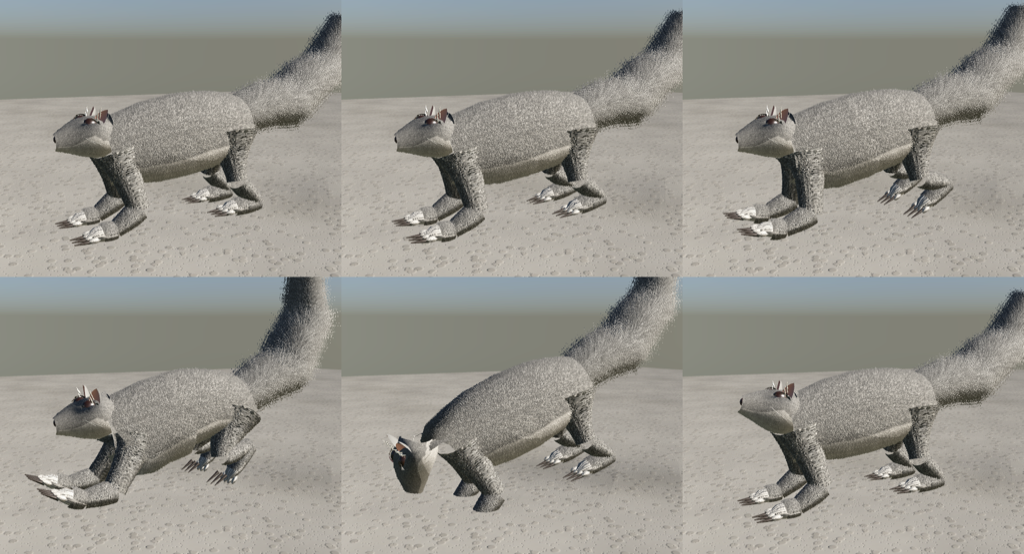
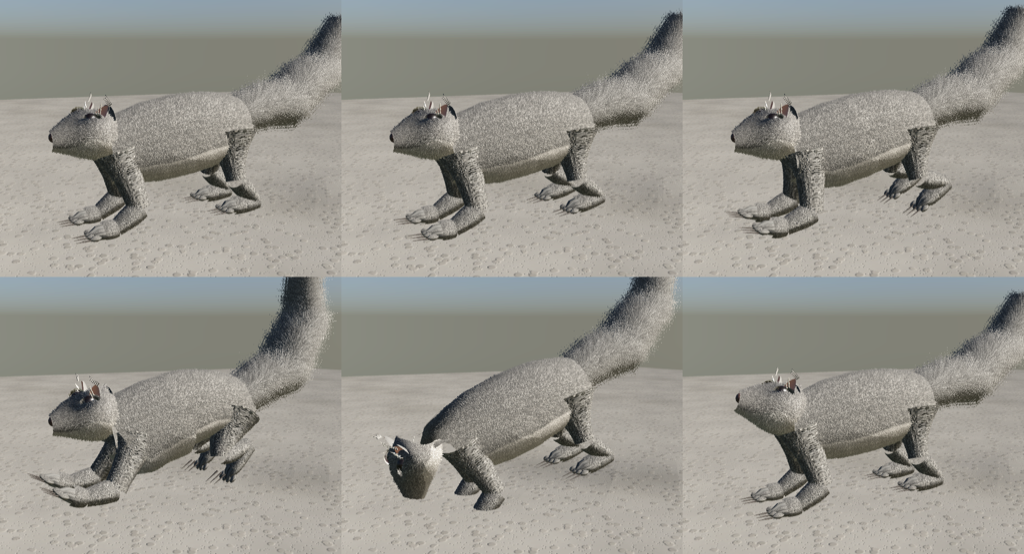
Pets pass 7: larger furred squirrel head, eye ring, slim claws, fennec seated eyes and tear line, matte bluebird

diff --git a/Sources/AnimalCore/Anatomy/GroundRigBuilder.swift b/Sources/AnimalCore/Anatomy/GroundRigBuilder.swift
@@ -49,6 +49,10 @@ struct GroundFrame {
     }
     /// Eye position: shaped heads seat it on the skull surface, the originals keep their placement.
     func eye(_ s: Side) -> V3 {
+        if a.headShape == nil && p.species == .fennecFox {
+            let t: Float = 0.5
+            return headCenter + V3(s.sign * 0.5 * a.headWidth * headProfile(t) * 0.8, 0.16 * a.headHeight, (0.5 - t) * a.headLength)
+        }
         if a.headShape == nil { return headCenter + V3(s.sign * 0.5 * a.headWidth * 0.8, 0.12 * a.headHeight, -0.12 * a.headLength) }
         let t: Float = 0.42
         let hw = 0.5 * a.headWidth * headProfile(t)
@@ -339,6 +343,18 @@ public enum GroundRigBuilder {
                 for k in 0...6 { let al = radians(58 + 40 * Float(k) / 6); rim.append(V2(R * 1.12 * sin(al), R * 1.12 * cos(al) * 0.92)) }
                 rig.add(Prim.lathe(rim, segments: 18, seamTile: 0.02, material: f.mat(.lid)), Xform(translation: c, rotation: face), to: GroundJoint.headPitch.name)
                 rig.add(Prim.cubeSphere(subdivisions: 3, material: f.mat(.eye)) { V3($0.x * R * 0.8, $0.y * R * 0.92, $0.z * R * 1.05) }, Xform(translation: c), to: GroundJoint.headPitch.name)
+                if p.species == .easternGraySquirrel {
+                    // White eye ring outside the dark rim.
+                    var ring: [V2] = []
+                    for k in 0...5 { let al = radians(62 + 34 * Float(k) / 5); ring.append(V2(R * 1.32 * sin(al), R * 1.32 * cos(al) * 0.9)) }
+                    rig.add(Prim.lathe(ring, segments: 18, seamTile: 0.02, material: f.mat(.whisker)), Xform(translation: c + V3(s.sign * R * 0.05, 0, 0), rotation: face), to: GroundJoint.headPitch.name)
+                }
+                if p.species == .fennecFox {
+                    // Dark tear line from the inner eye corner down toward the muzzle.
+                    let e0 = c + V3(s.sign * R * 0.35, -R * 0.4, -R * 0.75)
+                    let pts = [e0, e0 + V3(s.sign * 0.002, -0.006, -0.008), e0 + V3(s.sign * 0.001, -0.012, -0.018)]
+                    rig.add(Prim.tube(pts, radii: [R * 0.18, R * 0.14, R * 0.05], sides: 4, seamTile: 0.01, material: f.mat(.lid)), to: GroundJoint.headPitch.name)
+                }
             }
             if plan == nil && !small { rig.add(Prim.cubeSphere(subdivisions: 3, material: f.mat(.eye)) { $0 * a.eyeRadius }, Xform(translation: c), to: GroundJoint.headPitch.name) }
             let face = simd_quatf(angle: -s.sign * .pi / 2, axis: GroundFrame.Z)
@@ -358,6 +374,14 @@ public enum GroundRigBuilder {
             let part = s == .left ? GroundJoint.earL.name : GroundJoint.earR.name
             for srf in QuadrupedBody.ear(base: base - dir * 0.004, dir: dir, side: side, normal: normal, len: a.earLength, width: a.earWidth,
                                          outer: f.mat(.ear), inner: f.mat(.pinna)) { rig.add(srf, to: part) }
+            if p.species == .easternGraySquirrel {
+                // Rounded ear rim with short fur tufts at the tip.
+                for k in 0..<6 {
+                    let tip = base + dir * (a.earLength * 0.92) + side * (a.earWidth * 0.12 * (Float(k) - 2.5))
+                    let L = a.earLength * 0.16
+                    rig.add(Prim.tube([tip, tip + dir * (0.5 * L) - normal * 0.001, tip + dir * L + side * (0.1 * L * (Float(k) - 2.5))], radii: [0.0011, 0.0007, 0.0001], sides: 3, seamTile: 0.02, material: f.mat(.head)), to: part)
+                }
+            }
             // Fine pale hair fringing the inner ear.
             for k in 0..<9 {
                 let sb = 0.06 + 0.07 * Float(k), sa = (Float(k % 3) - 1) * 0.35
@@ -496,7 +520,7 @@ public enum GroundRigBuilder {
                 // Paw and claws.
                 let pc = a.digitigrade ? c.toe + V3(0, r * 0.35, -r * 0.8) : c.toe + V3(0, 0, 0.004)
                 rig.add(Loft.ellipsoid(center: pc, axis: V3(0, 0, -1), up: GroundFrame.Y, radii: V3(r * 1.1, r * 0.7, r * 1.7), rings: 5, segments: 8, material: limbFur,
-                                       uv: { u, v in V2((small ? 0.42 : legU) + 0.04 * cos(u * 2 * .pi), 0.45) }), to: ankle)
+                                       uv: { u, v in V2(legU + 0.04 * cos(u * 2 * .pi), 0.45) }), to: ankle)
                 let n = a.clawScale > 2 ? 4 : 3
                 if small {
                     // Rounded toes fanned at the front of the paw.
@@ -504,13 +528,13 @@ public enum GroundRigBuilder {
                         let off = (Float(k) - 1.5) * r * 0.62
                         let tc = pc + V3(off, -r * 0.15, -r * (1.45 - 0.12 * abs(Float(k) - 1.5)))
                         rig.add(Loft.ellipsoid(center: tc, axis: V3(off * 8, 0, -1), up: GroundFrame.Y, radii: V3(r * 0.3, r * 0.26, r * 0.5), rings: 5, segments: 8, material: limbFur,
-                                               uv: { u, v in V2(0.42 + 0.03 * cos(u * 2 * .pi), 0.45) }), to: ankle)
+                                               uv: { u, v in V2(legU + 0.03 * cos(u * 2 * .pi), 0.45) }), to: ankle)
                     }
                 }
                 for k in 0..<n {
                     let off = (Float(k) - Float(n - 1) / 2) * r * 0.7
                     let cl = pc + V3(off, -r * 0.3, -r * 1.4)
-                    rig.add(Prim.tube([cl, cl + V3(0, -0.0006 * a.clawScale, -r * 1.6 * a.clawScale)], radii: [r * 0.22 * a.clawScale.squareRoot(), r * 0.05], sides: 4, seamTile: 0.01, material: f.mat(.claw)), to: ankle)
+                    rig.add(Prim.tube([cl, cl + V3(0, -0.0006 * a.clawScale, -r * 1.6 * a.clawScale)], radii: [r * (small ? 0.1 : 0.22) * a.clawScale.squareRoot(), r * 0.02], sides: small ? 5 : 4, seamTile: 0.01, material: f.mat(.claw)), to: ankle)
                 }
             }
         }

diff --git a/Sources/AnimalCore/Materials/FaunaMaterials.swift b/Sources/AnimalCore/Materials/FaunaMaterials.swift
@@ -32,8 +32,9 @@ public enum FaunaMaterials {
         return [
             make(.body, .plumageBody) {
                 $0.colorA = linear(c.back); $0.colorB = linear(c.belly); $0.colorC = linear(c.breast)
-                $0.knobs = V4(c.featherRows * 1.9, c.flankLine, c.breastExtent, c.spotting)
-                $0.tileSize = 0; $0.resolution = 1024; $0.normalStrength = 1.3; $0.roughness = 0.66
+                $0.knobs = V4(c.featherRows * 5.0, c.flankLine, c.breastExtent, c.spotting)
+                // Fine contour feathers, matte: no grid read, no lacquer sheen.
+                $0.tileSize = 0; $0.resolution = 2048; $0.normalStrength = 0.55; $0.roughness = 0.82; $0.specular = 0.25
                 if c.iridescence > 0 { $0.roughness = 0.55; $0.specular = 0.5 }   // structural blue: soft sheen, not lacquer
             },
             p.anatomy.caruncle > 0
@@ -44,8 +45,8 @@ public enum FaunaMaterials {
             }
             : make(.head, .plumageHead) {
                 $0.colorA = linear(c.crown); $0.colorB = linear(c.cheek); $0.colorC = linear(c.mask)
-                $0.knobs = V4(c.featherRows * 2.4, c.crownLine, c.throatExtent, c.maskExtent)
-                $0.tileSize = 0; $0.resolution = 1024; $0.normalStrength = 0.6; $0.roughness = 0.6
+                $0.knobs = V4(c.featherRows * 6.0, c.crownLine, c.throatExtent, c.maskExtent)
+                $0.tileSize = 0; $0.resolution = 1024; $0.normalStrength = 0.45; $0.roughness = 0.84; $0.specular = 0.25
             },
             make(.flight, .plumageFeather) {
                 $0.colorA = linear(c.flight); $0.colorB = linear(c.flight); $0.colorC = linear(c.wingEdge)
@@ -132,7 +133,7 @@ public enum FaunaMaterials {
     // MARK: ground animals
 
     public enum GroundRegion: String, CaseIterable, Sendable {
-        case body, head, tail, ear, nose, eye, claw, whisker, quill, antler, hoof, muzzle, throat, rump, mane, bristle, pinna, lid, shell, tailShell, limb
+        case body, head, tail, ear, nose, eye, claw, whisker, quill, antler, hoof, muzzle, throat, rump, mane, bristle, pinna, lid, shell, tailShell, limb, headShell
     }
 
     public static func key(_ id: String, _ r: GroundRegion) -> MaterialKey { "fauna.\(id).\(r.rawValue)" }
@@ -181,6 +182,12 @@ public enum FaunaMaterials {
                 $0.knobs = V4(c.strands, c.flankLine, 0.55, 0.3)
                 $0.tileSize = 0; $0.resolution = 1024; $0.normalStrength = 0.4; $0.roughness = 0.86; $0.mode = .cutout
             },
+            make(.headShell, .furShell) {
+                // Head atlas spans a short loft: fewer strand cells so strands stay above texel size.
+                $0.colorA = linear(c.face); $0.colorB = linear(c.belly); $0.colorC = linear(c.belly)
+                $0.knobs = V4(c.strands * 0.35, c.flankLine + 0.04, 0.5, 0.3)
+                $0.tileSize = 0; $0.resolution = 1024; $0.normalStrength = 0.4; $0.roughness = 0.86; $0.mode = .cutout
+            },
             make(.tailShell, .furShell) {
                 // Tail brush: coat-coloured strands, many white frosted guard-hair tips.
                 $0.colorA = linear(c.tail); $0.colorB = linear(c.tail); $0.colorC = linear(c.tailTip)
@@ -203,7 +210,7 @@ public enum FaunaMaterials {
             },
             make(.eye, .plastic) {
                 // Dark brown iris under a clear cornea: tiny roughness, full clearcoat for the wet highlight.
-                $0.colorA = linear(0x2A170C); $0.knobs = V4(0.25, 0.2, 0.25, 0)
+                $0.colorA = linear(0x120804); $0.knobs = V4(0.25, 0.2, 0.25, 0)
                 $0.tileSize = 0.004; $0.resolution = 128; $0.normalStrength = 0; $0.roughness = 0.02; $0.clearcoat = 1; $0.specular = 1
             },
             make(.claw, .plastic) {

diff --git a/Sources/AnimalCore/Species/BirdSpecies.swift b/Sources/AnimalCore/Species/BirdSpecies.swift
@@ -153,12 +153,12 @@ extension BirdProfile {
     static let bluebird = BirdProfile(
         species: .easternBluebird, name: "Eastern Bluebird", latin: "Sialia sialis",
         blurb: "Rust breast and royal blue back. Nests in boxes at the edge of open lawn.",
-        anatomy: BirdAnatomy(length: 0.17, wingspan: 0.30, bodyLength: 0.088, bodyDepth: 0.054, bodyWidth: 0.050, restPitch: 40,
+        anatomy: BirdAnatomy(length: 0.17, wingspan: 0.28, bodyLength: 0.088, bodyDepth: 0.054, bodyWidth: 0.050, restPitch: 40,
                              neckLength: 0.016, neckPitch: 12, headLength: 0.036, headWidth: 0.031, headHeight: 0.033,
                              beakLength: 0.011, beakDepth: 0.0062, beakWidth: 0.0058, beakCurve: 0.0012, tailLength: 0.064, tailWidth: 0.036,
                              tailFork: 0.003, tailFeathers: 12, tarsus: 0.023, toeLength: 0.014, crestHeight: 0, crestLength: 0,
-                             eyeRadius: 0.0033, wingChord: 0.062, primaries: 9, bounds: false),
-        plumage: Plumage(crown: 0x3E6FCF, cheek: 0x3E6FCF, mask: 0xB8683C, back: 0x3F72D2, belly: 0xF1EEE8, breast: 0xB9673A, wing: 0x3A68C4,
+                             eyeRadius: 0.0033, wingChord: 0.052, primaries: 9, bounds: false),
+        plumage: Plumage(crown: 0x3A66BE, cheek: 0x3A66BE, mask: 0xB8683C, back: 0x3B63B5, belly: 0xF1EEE8, breast: 0xB9673A, wing: 0x365FB0,
                          flight: 0x2F4F9A, wingEdge: 0x5A86DA, tail: 0x2F57AE, tailEdge: 0x3E6FCF, beak: 0x1A1816,
                          breastExtent: 0.42, flankLine: 0.58, crownLine: 0.62, throatExtent: 0.5, maskExtent: 0, barring: 0, fringe: 0.12),
         behavior: BirdBehavior(cruise: 8, wingbeatHz: 9, hovers: false, boldness: 0.55, skittishRadius: 1.6, groundForaging: 0.45, perchHeight: 0.45,

diff --git a/Sources/AnimalCore/Species/GroundSpecies.swift b/Sources/AnimalCore/Species/GroundSpecies.swift
@@ -202,7 +202,7 @@ extension GroundProfile {
         var p = GroundProfile(
         species: .easternGraySquirrel, name: "Eastern Gray Squirrel", latin: "Sciurus carolinensis",
         blurb: "Bold and acrobatic. Buries nuts, raids feeders and runs up any tree or fence.",
-        anatomy: GroundAnatomy(bodyLength: 0.21, bodyDepth: 0.1, bodyWidth: 0.085, headLength: 0.058, headWidth: 0.05, headHeight: 0.05, snout: 0.02,
+        anatomy: GroundAnatomy(bodyLength: 0.21, bodyDepth: 0.1, bodyWidth: 0.085, headLength: 0.064, headWidth: 0.062, headHeight: 0.062, snout: 0.02,
                                earLength: 0.028, earWidth: 0.02, tailLength: 0.21, tailWidth: 0.075, foreLeg: 0.07, hindLeg: 0.085, legRadius: 0.009, pitch: 8, eyeRadius: 0.0078),
         palette: GroundPalette(back: 0x8D8C88, belly: 0xE8E4DC, accent: 0xC9C8C2, ear: 0x8D8C88, nose: 0x5E4A44, eye: 0x120E0C, claw: 0x3A332E, tail: 0x8A8985,
                                tailTip: 0xD2D0CA, face: 0x9A9894, flankLine: 0.6, pattern: 0.35, strands: 90),

diff --git a/Sources/AnimalKit/GroundPuppet.swift b/Sources/AnimalKit/GroundPuppet.swift
@@ -127,7 +127,7 @@ public enum GroundFactory {
                         if k.hasSuffix(".tail") { return ("fauna.\(id).tailShell", tw * 0.32) }
                         if k.hasSuffix(".limb") { return ("fauna.\(id).shell", 0.0018) }
                         if k.hasSuffix(".body") { return ("fauna.\(id).shell", 0.0045) }
-                        if k.hasSuffix(".head") || k.hasSuffix(".muzzle") { return ("fauna.\(id).shell", 0.0035) }
+                        if k.hasSuffix(".head") || k.hasSuffix(".muzzle") { return ("fauna.\(id).headShell", 0.005) }
                         return nil
                     }
                 }.value

diff --git a/notes/visual-log.md b/notes/visual-log.md
@@ -124,3 +124,15 @@ eye inset 0.6 R.
 Iter 4. Issue: head shells hidden (loft wound inward). Fix: centroid vote flips shell direction.
 Budget: 12 shells = 74k tris; 8 shells = 51.2k (test asserts < 60k). `GroundFactory.shellCount`.
 Open: squirrel head still reads smooth; bluebird scale-like plumage (no barbed cards yet); whiskers opaque.
+
+## Pass 7
+
+Iter 1. Squirrel head 0.064 x 0.062 x 0.062 m (cranium +25%), head shells 5 mm, white eye ring,
+ear-tip tufts; paws and toes on leg coat (no pale blobs), claws r 0.1 to 0.02; fennec eye on the skull
+surface (t 0.5, 0.8 half width) plus dark tear line; bluebird matte contour feathers (rows x3, normal
+0.55, roughness 0.82, specular 0.25), muted blues, wing chord 0.052, span 0.28.
+Iter 2. Issues: bluebird grid still visible, squirrel head bare, ear tufts read as spikes. Fixes: rows x5
+body / x6 head, darker iris 0x120804, tufts 0.16 ear length on head coat.
+Iter 3. Issue: head strands below texel size (cutout lost in mips). Fix: `headShell` region with
+0.35x strand density. Head now reads furred.
+Open: bluebird has no barbed cards; ears remain flat sheets.
